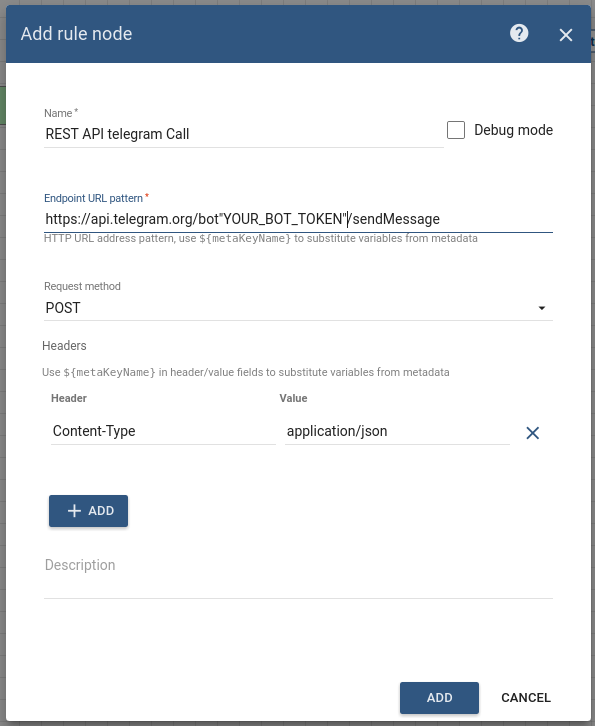
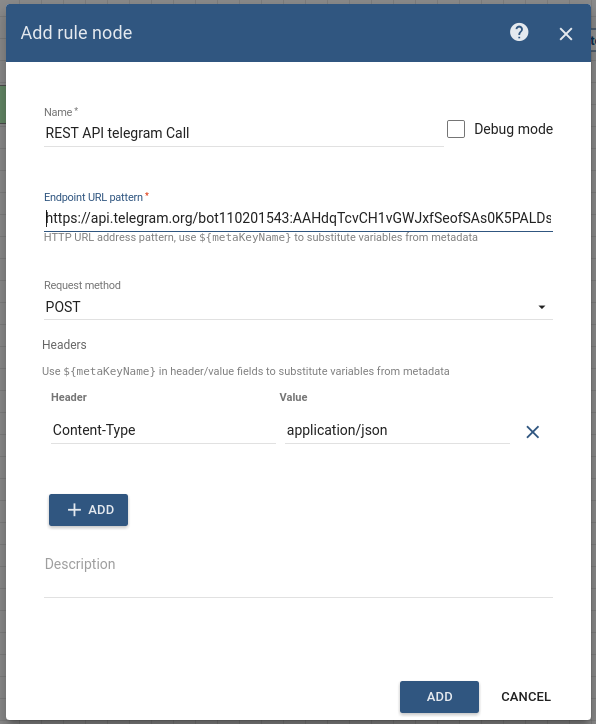
Telegram-Bot tutorial

diff --git a/docs/iot-gateway/integration-with-telegram-bot.md b/docs/iot-gateway/integration-with-telegram-bot.md
@@ -78,8 +78,10 @@ There are several ways to get the Chat ID:
 
 ```bash
 https://api.telegram.org/bot"YOUR_BOT_TOKEN"/getUpdates
-          
-"YOUR_BOT_TOKEN" has to be replaced by the authentication token of your bot
+
+"YOUR_BOT_TOKEN" has to be replaced by the authentication token of your bot, e.g.:
+
+https://api.telegram.org/bot110201543:AAHdqTcvCH1vGWJxfSeofSAs0K5PALDsaw/getUpdates
 ```
 
 
